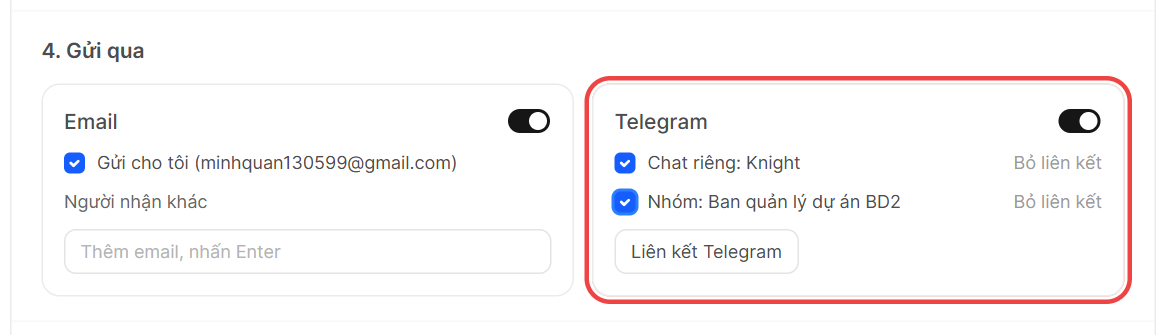
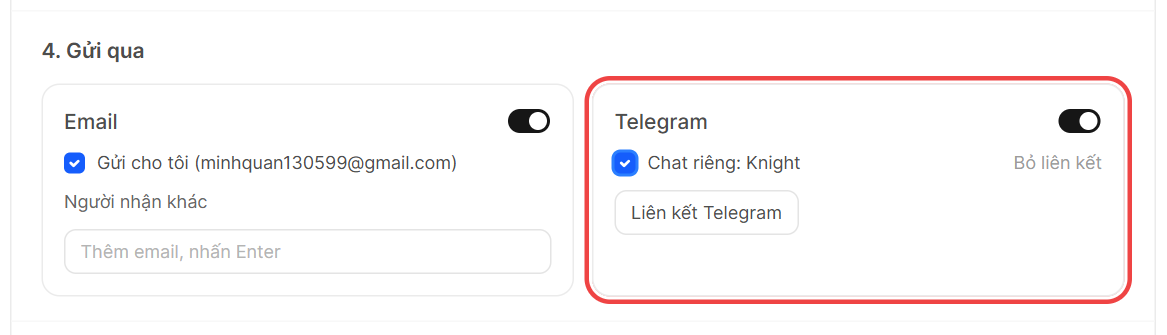
Fix lại hướng dẫn tele p2

diff --git a/backend/open_webui/monitoring/server/static/index.html b/backend/open_webui/monitoring/server/static/index.html
@@ -1658,7 +1658,8 @@
     ['reports.email.mode', 'Email có nhiều người nhận', 'enum', [['bcc', 'Một email, ẩn người nhận (Bcc)'], ['to', 'Một email, mọi người thấy nhau (To)'], ['separate', 'Mỗi người nhận một email']]],
     ['reports.telegram.enable', 'Gửi qua Telegram', 'bool'],
     ['reports.telegram.bot_token', 'Bot token Telegram (để trống = giữ token đã lưu)', 'secret'],
-    ['reports.telegram.allow_groups', 'Cho gửi vào nhóm Telegram', 'bool'],
+    // Telegram groups are switched off for now (TELEGRAM_GROUPS_ENABLED in reports/settings.py).
+    // ['reports.telegram.allow_groups', 'Cho gửi vào nhóm Telegram', 'bool'],
     ['reports.max_schedules', 'Số lịch tối đa mỗi người', 'int'],
     ['reports.max_channels', 'Số kênh tối đa mỗi báo cáo', 'int'],
     ['reports.default_prompt', 'Mẫu báo cáo mặc định (khi người tạo để trống yêu cầu)', 'textarea'],

diff --git a/src/lib/components/admin/Settings/Reports.svelte b/src/lib/components/admin/Settings/Reports.svelte
@@ -176,9 +176,12 @@
 					{#if telegramCheck}<span class="text-xs text-gray-500">{telegramCheck}</span>{/if}
 					{#if values['reports.telegram.bot_username']}<span class="text-xs text-gray-500">Bot: @{values['reports.telegram.bot_username']}</span>{/if}
 				</div>
-				<AdminSettingRow label={$i18n.t('Allow sending to Telegram groups')} let:labelId>
-					<Switch ariaLabelledbyId={labelId} bind:state={values['reports.telegram.allow_groups']} />
-				</AdminSettingRow>
+				<!-- Telegram groups are switched off for now (TELEGRAM_GROUPS_ENABLED in backend reports/settings.py). -->
+				{#if false}
+					<AdminSettingRow label={$i18n.t('Allow sending to Telegram groups')} let:labelId>
+						<Switch ariaLabelledbyId={labelId} bind:state={values['reports.telegram.allow_groups']} />
+					</AdminSettingRow>
+				{/if}
 			</AdminSettingSection>
 
 			<AdminSettingSection title={$i18n.t('Limits')}>

diff --git a/src/routes/(app)/reports/+page.svelte b/src/routes/(app)/reports/+page.svelte
@@ -81,6 +81,8 @@
 	let previewTab: 'email' | 'telegram' = 'email';
 
 	let linking: { id: string; url: string; group_command: string; allow_groups: boolean } | null = null;
+	// Linking a Telegram group is hidden for now; set to true to show the "/link <code>" part again.
+	const SHOW_TELEGRAM_GROUP_LINK = false;
 	let linkTimer: ReturnType<typeof setInterval> | null = null;
 
 	let confirmDelete = false;
@@ -827,7 +829,7 @@
 				{/if}
 				<span class="text-xs text-gray-500">{$i18n.t('Telegram opens the bot; press Start.')}</span>
 			</div>
-			{#if linking.allow_groups}
+			{#if SHOW_TELEGRAM_GROUP_LINK && linking.allow_groups}
 				<div class="flex flex-col gap-1.5">
 					<span class="font-medium">{$i18n.t('A Telegram group')}</span>
 					<span class="text-xs text-gray-500">{$i18n.t('Add the bot to the group, then send this message in the group:')}</span>

diff --git a/backend/open_webui/reports/telegram.py b/backend/open_webui/reports/telegram.py
@@ -106,7 +106,7 @@ async def _handle(token: str, update: dict, allow_groups: bool) -> None:
             await call(token, 'sendMessage', chat_id=chat['id'], text='Chào bạn! Vào NCS AI → Báo cáo định kỳ → Liên kết Telegram để nhận báo cáo tại đây.')
         return
     if chat_type != 'private' and not allow_groups:
-        await call(token, 'sendMessage', chat_id=chat['id'], text='Quản trị viên chưa cho phép gửi báo cáo vào nhóm Telegram.')
+        await call(token, 'sendMessage', chat_id=chat['id'], text='NCS AI tạm thời chưa gửi báo cáo vào nhóm Telegram. Hãy liên kết chat riêng với bot.')
         return
     title = chat.get('title') or ' '.join(x for x in (chat.get('first_name'), chat.get('last_name')) if x) or str(chat['id'])
     link = await TelegramLinks.confirm(code.strip(), str(chat['id']), title, chat_type)

diff --git a/backend/open_webui/reports/settings.py b/backend/open_webui/reports/settings.py
@@ -38,6 +38,10 @@ SETTINGS: list[tuple[str, str, Any]] = [
 ]
 BY_KEY = {key: (kind, default) for key, kind, default in SETTINGS}
 
+# Telegram groups are switched off for now, whatever the admin setting says: groups cannot be linked
+# and reports are not sent to groups linked earlier. Set to True to give the admin setting back.
+TELEGRAM_GROUPS_ENABLED = False
+
 
 def _coerce(key: str, value):
     kind, default = BY_KEY[key]
@@ -72,6 +76,8 @@ async def get_settings() -> dict:
             values[key] = default
     if not values['reports.default_prompt']:
         values['reports.default_prompt'] = DEFAULT_PROMPT
+    if not TELEGRAM_GROUPS_ENABLED:
+        values['reports.telegram.allow_groups'] = False
     return values
 
 
